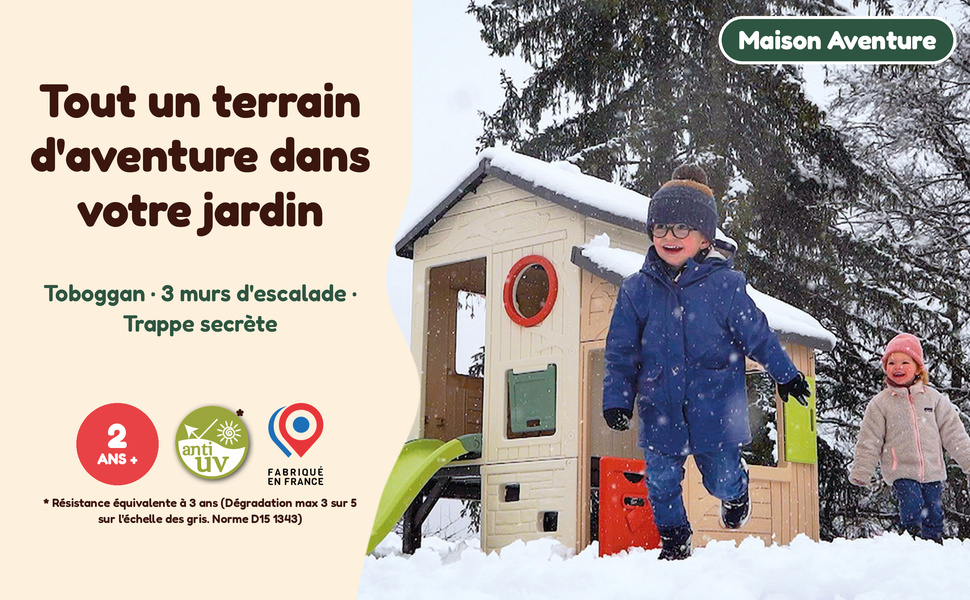
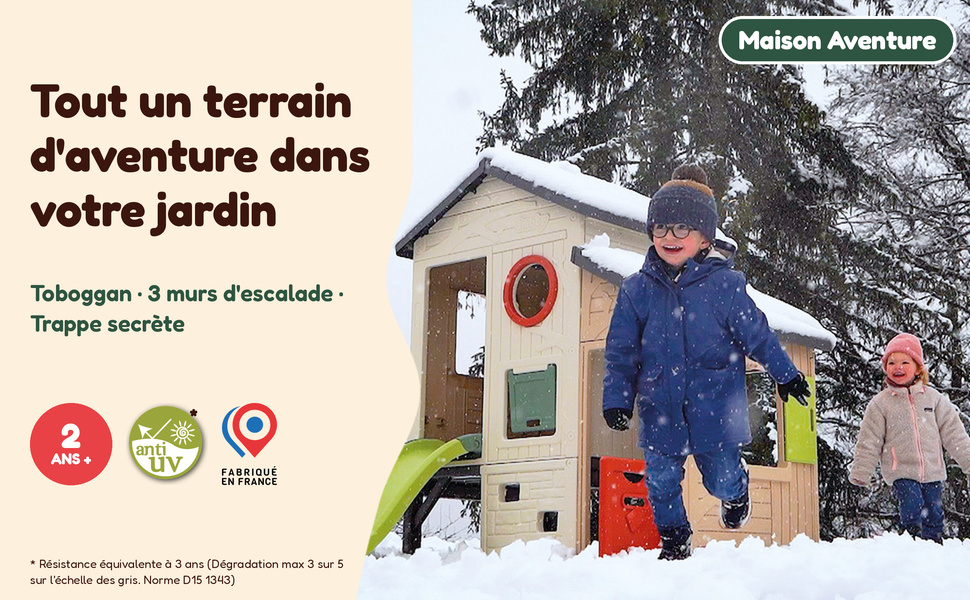
Hero : textes et badges alignés à gauche, note Anti-UV en bas à gauche, non grasse
Claude-Session: https://claude.ai/code/session_01D96YY5ayfmg3FrHzmieJyY

diff --git a/tools/hero_life.py b/tools/hero_life.py
@@ -1,5 +1,5 @@
 # Hero A+ 970x600, charte figée le 16/11/2026 (validée par Nathan) : photo lifestyle Drive INTACTE (recadrage + réduction seulement) à droite,
-# panneau crème à bord net (droit en haut, ondulé ensuite), police Fredoka, titre + sous-titre + badges centrés dans le panneau,
+# panneau crème à bord net (droit en haut, ondulé ensuite), police Fredoka, titre + sous-titre + badges alignés à gauche dans le panneau, note Anti-UV en bas à gauche,
 # badges TOUJOURS à la même taille (BADGE), logos officiels collés tels quels, pastille produit en haut à droite.
 # Usage : python3 tools/hero_life.py <spec.json>
 # spec : {"photo":"life.jpg","out":"hero.jpg","scale":0.47,"ox":null,"oy":-5,"title":["l1","l2"],"sub":["l1","l2"],
@@ -14,6 +14,7 @@ from aplus import F
 SS = 3; W, H = 970, 600
 CREAM = (253, 240, 221); BROWN = (58, 22, 14); GREEN = (46, 85, 65); RED = (232, 66, 70)  # GREEN = vert des bandeaux #2E5541
 LOGOS = os.path.join(os.path.dirname(__file__), 'assets', 'logos')
+LX = 30;  # marge gauche : titre, sous-titre, badges et note alignés à gauche
 CX = 200; GAP = 14; BADGE = 82; TSIZE = 50; EDGE = [412, 412, 386, 420, 380, 356]
 
 def ctext(d, cx, y, t, f, fill):
@@ -53,10 +54,11 @@ def main(sp_path):
     th = len(sp['title']) * ts * 1.16; sh = len(sp['sub']) * ss_ * 1.32
     free = H - 120 - (th + sh + Dp + nh); g1 = min(44, free * 0.4); g2 = min(64, free * 0.6)
     y = (60 + (free - g1 - g2) / 2) * SS
-    for ln in sp['title']: ctext(d, cx, y, ln, F(ts * SS, 700), BROWN); y += ts * 1.16 * SS
+    lx = LX * SS
+    for ln in sp['title']: d.text((lx, y), ln, font=F(ts * SS, 700), fill=BROWN); y += ts * 1.16 * SS
     y += g1 * SS
-    for ln in sp['sub']: ctext(d, cx, y, ln, F(ss_ * SS, 600), GREEN); y += ss_ * 1.32 * SS
-    D = Dp * SS; by = int(y + g2 * SS); tw = sum(rel(k) for k in items) * D + GAP * SS * (len(items) - 1); bx = int(cx - tw / 2)
+    for ln in sp['sub']: d.text((lx, y), ln, font=F(ss_ * SS, 600), fill=GREEN); y += ss_ * 1.32 * SS
+    D = Dp * SS; by = int(y + g2 * SS); tw = sum(rel(k) for k in items) * D + GAP * SS * (len(items) - 1); bx = lx
     for k in items:
         if k == 'age':
             d.ellipse((bx, by, bx + D, by + D), fill=RED)
@@ -86,13 +88,13 @@ def main(sp_path):
         bx += int(rel(k) * D) + GAP * SS
     if note:
         nt = '* ' + sp.get('uv_note', "Résistance équivalente à 3 ans (Dégradation max 3 sur 5 sur l'échelle des gris. Norme D15 1343)")
-        fn = F(12 * SS, 600); lines, cur = [], ''
+        fn = F(12 * SS, 400); lines, cur = [], ''  # note Anti-UV : pas en gras, en bas à gauche de la bannière
         for w_ in nt.split():
             t_ = (cur + ' ' + w_).strip()
             if d.textlength(t_, font=fn) > 320 * SS and cur: lines.append(cur); cur = w_
             else: cur = t_
-        lines.append(cur); y2 = by + D + 10 * SS
-        for ln in lines: ctext(d, cx, y2, ln, fn, BROWN); y2 += 16 * SS
+        lines.append(cur); y2 = (H - 12 - 16 * len(lines)) * SS
+        for ln in lines: d.text((lx, y2), ln, font=fn, fill=BROWN); y2 += 16 * SS
     pf = F(26 * SS, 700); bb = d.textbbox((0, 0), sp['pill'], font=pf); pw = bb[2] - bb[0] + 40 * SS; ph_ = 48 * SS
     px = (W - 14) * SS - pw; py = 16 * SS
     d.rounded_rectangle((px, py, px + pw, py + ph_), radius=ph_ // 2, fill=GREEN, outline='white', width=3 * SS)
